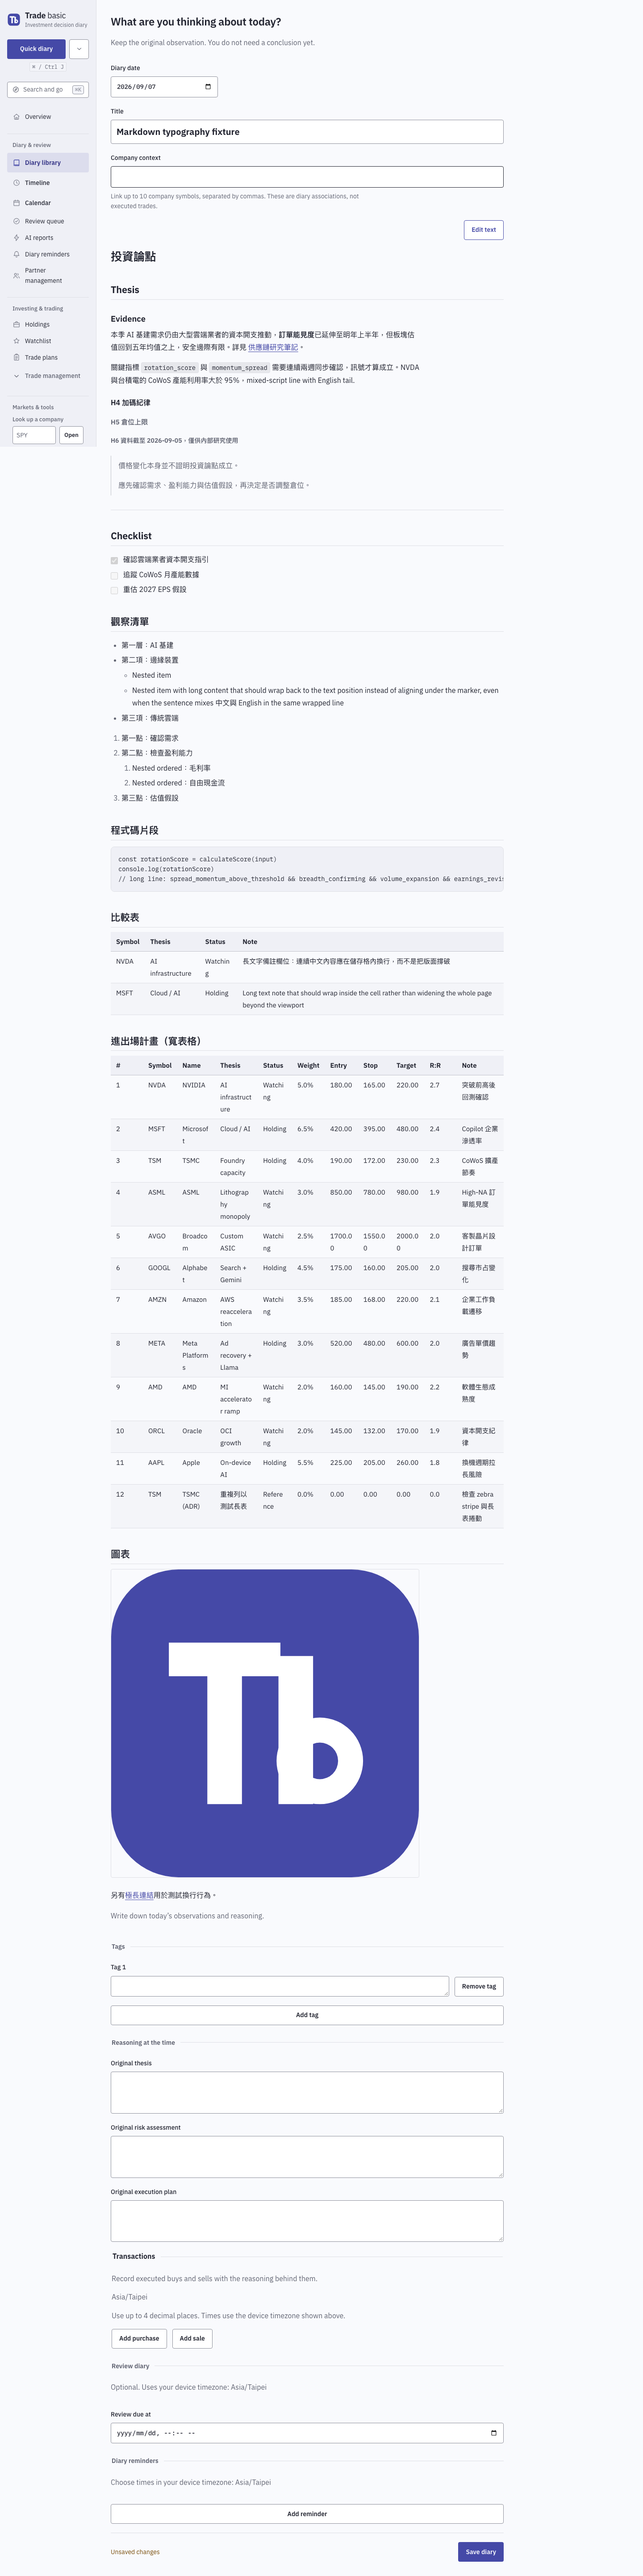
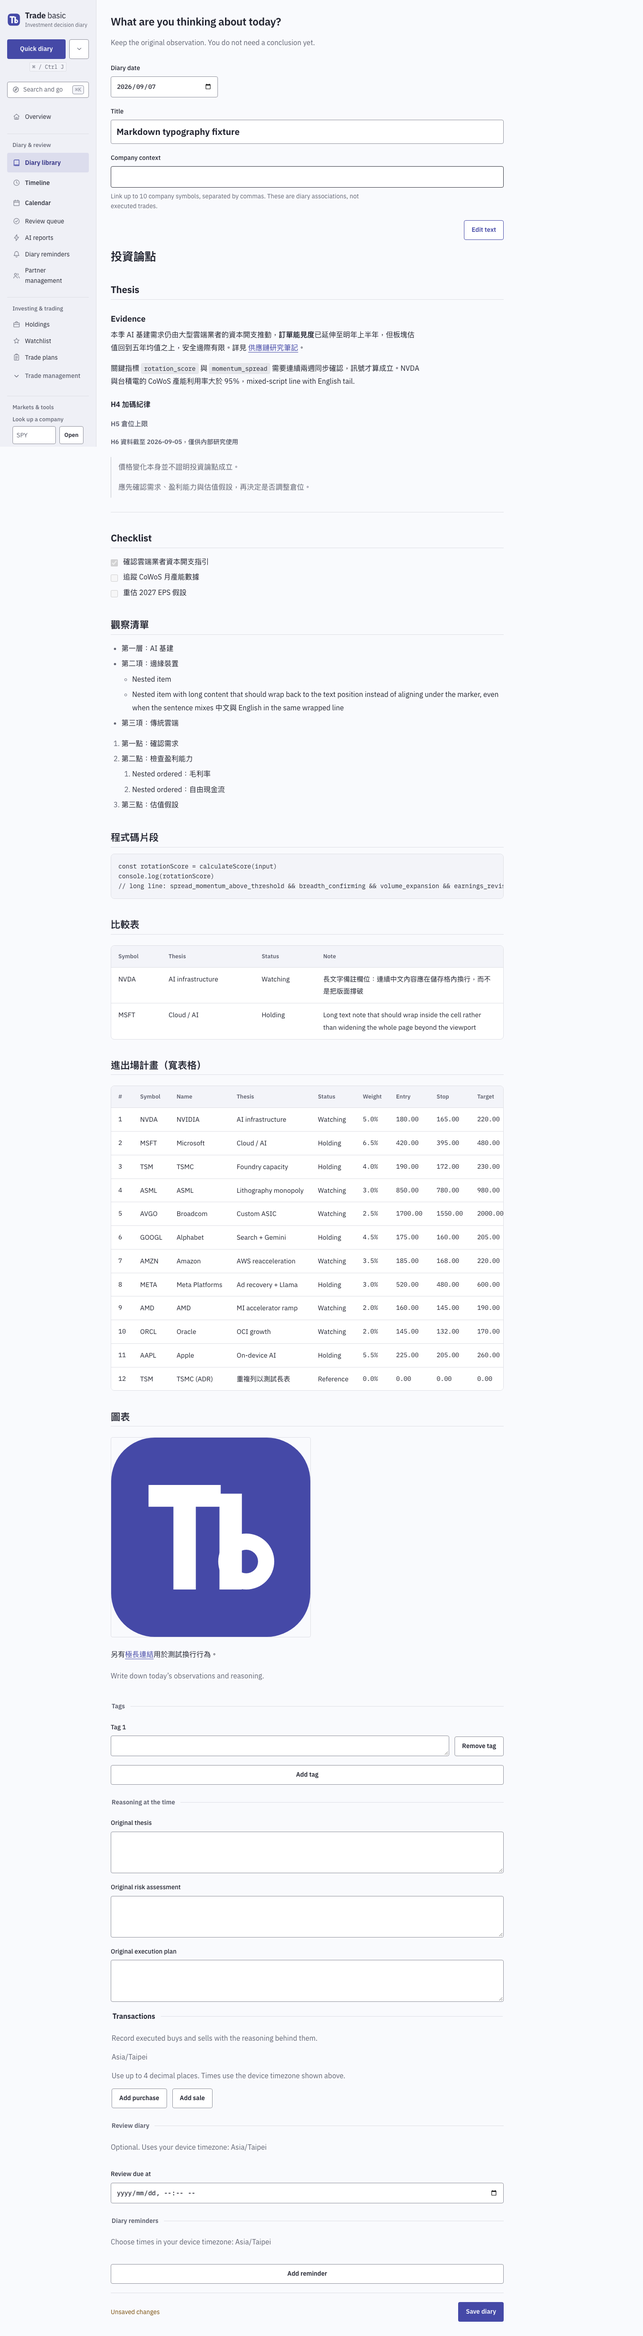
fix(markdown): size table columns to content, bound images, and apply the Figure Rule
The shared `.safe-markdown` layer set `overflow-wrap: anywhere`. Unlike
`break-word`, `anywhere` shrinks an element's min-content width, so table
columns collapsed below the width of a single word and the fixture rendered
"AI infrastructu / re", "Micros / oft" and "Watchin / g" on every Markdown
surface — diary, articles, notes, research, previews. `anywhere` is now scoped
to links and code, the two places a long URL genuinely needs to break inside a
word.

Tables were also pinned to `width: 100%`, which left the browser handing a
prose column its minimum and stacking it one word per line. That was worst at
390px, where the reading page ran 5223px tall with four-line rows. Columns now
size to their content (`width: max-content; min-width: 100%`) and the region
scrolls instead, with a 32ch cell cap so a long note wraps at a readable
measure rather than running the table out to its longest sentence. The same
page is now 4369px with one line per row.

`.markdown-table` had no border, so a wide table bled off the reading column
with nothing to mark where it was clipped. It now follows the `.table-scroll`
idiom already in `styles.css`: hairline, 8px radius, surface background, sunken
muted header, no rule under the last row. Zebra striping goes with it — the
house tables carry row hierarchy on hairlines, per the Structural Hierarchy
Rule, and nothing else in the system stripes.

Images stretched to fill the measure: the fixture's 512px square SVG rendered
[…]

diff --git a/apps/web/app/markdown.css b/apps/web/app/markdown.css
@@ -4,7 +4,15 @@
    spacing scales with each element's own type size. */
 
 .safe-markdown {
-  line-height: 1.8;
+  line-height: 1.85;
+  /* break-word, not anywhere: `anywhere` lets an ordinary word split mid-word
+     and shrinks the min-content width, which collapsed table columns into
+     "infrastructu / re". Only URLs and code may break inside a word. */
+  overflow-wrap: break-word;
+}
+
+.safe-markdown a,
+.safe-markdown code {
   overflow-wrap: anywhere;
 }
 
@@ -98,13 +106,22 @@
   padding: var(--space-4);
   border: 1px solid var(--border);
   border-radius: var(--radius-card);
-  background: var(--muted-surface);
+  /* A code block is a well, which is the surface-sunken role. */
+  background: var(--surface-sunken);
   font-size: 0.875rem;
   line-height: 1.6;
+  tab-size: 2;
   overflow-x: auto;
   /* Same reasoning as .markdown-table: keep long code lines from inflating
      content-sized ancestors. */
   contain: inline-size;
+}
+
+/* A region that scrolls must be reachable by keyboard; the component gives
+   pre a tabindex, so it needs a visible focus state like the table region. */
+.safe-markdown pre:focus-visible {
+  outline: 2px solid var(--focus);
+  outline-offset: 3px;
 }
 
 .safe-markdown pre code {
@@ -181,45 +198,31 @@
 
 /* ---- Images ---- */
 
+/* width/height auto keeps a raster image at its natural size and stops an SVG
+   with no intrinsic size (an icon, a logo) from stretching to fill the whole
+   measure; the max pair then bounds anything larger than the reading column. */
 .safe-markdown img {
+  display: block;
+  width: auto;
   max-width: 100%;
   height: auto;
+  max-height: 28rem;
+  margin: 1.5em 0;
   border: 1px solid var(--border);
   border-radius: var(--radius-control);
 }
 
 /* ---- Tables ---- */
 
-.safe-markdown table {
-  width: 100%;
-  min-width: 0;
-  border-collapse: collapse;
-  font-size: 0.9375rem;
-  font-variant-numeric: tabular-nums;
-}
-
-.safe-markdown th,
-.safe-markdown td {
-  min-width: 8ch;
-  padding: var(--space-2) var(--space-3);
-  border-bottom: 1px solid var(--border);
-  text-align: left;
-  vertical-align: top;
-}
-
-.safe-markdown thead th {
-  background: var(--muted-surface);
-  font-weight: 650;
-  border-bottom: 1px solid var(--border-strong);
-  white-space: nowrap;
-}
-
-.safe-markdown tbody tr:nth-child(even) {
-  background: color-mix(in srgb, var(--muted-surface) 50%, transparent);
-}
-
+/* Markdown tables follow the .table-scroll idiom from styles.css: a bounded,
+   bordered, rounded scroll region on the surface, so a wide table has a
+   visible right edge to scroll against instead of bleeding off the column. */
 .markdown-table {
   max-width: 100%;
+  margin: 1.5em 0;
+  border: 1px solid var(--rule);
+  border-radius: var(--radius-card);
+  background: var(--surface);
   overflow-x: auto;
   /* Inline-size containment stops the table's intrinsic width leaking into
      ancestors that size from content (e.g. grid items with min-width: auto);
@@ -232,6 +235,50 @@
   outline-offset: 3px;
 }
 
-.markdown-table table {
-  min-width: 0;
+/* Columns size to their content and the region scrolls, rather than the table
+   being squeezed into the measure: at 100% width the browser hands a prose
+   column its minimum and stacks it one word per line. min-width keeps a short
+   table filling the region. */
+.safe-markdown table {
+  width: max-content;
+  min-width: 100%;
+  border-collapse: collapse;
+  font-size: 0.9375rem;
+}
+
+.safe-markdown th,
+.safe-markdown td {
+  min-width: 5ch;
+  /* A long note wraps at a readable measure instead of running the table out
+     to the width of its longest sentence. */
+  max-width: 32ch;
+  padding: var(--space-3) var(--space-4);
+  border-bottom: 1px solid var(--rule);
+  text-align: left;
+  vertical-align: top;
+}
+
+/* Header follows the house table header: sunken, muted, small, semibold. */
+.safe-markdown thead th {
+  background: var(--surface-sunken);
+  border-bottom: 1px solid var(--rule);
+  color: var(--muted);
+  font-size: var(--text-xs);
+  font-weight: var(--weight-semibold);
+  white-space: nowrap;
+}
+
+/* The region's own border closes the table; hierarchy stays on the hairlines
+   rather than on zebra fills. */
+.safe-markdown tbody tr:last-child td,
+.safe-markdown tbody tr:last-child th {
+  border-bottom: 0;
+}
+
+/* The Figure Rule: a cell holding only a figure takes the mono cut, so prices
+   and percentages line up down the column. Set by the td/th components. */
+.safe-markdown td.num,
+.safe-markdown th.num {
+  font-variant-numeric: tabular-nums;
+  white-space: nowrap;
 }

diff --git a/apps/web/app/markdown.tsx b/apps/web/app/markdown.tsx
@@ -2,9 +2,27 @@ import { useUi } from './ui';
 import ReactMarkdown from 'react-markdown';
 import remarkGfm from 'remark-gfm';
 import './markdown.css';
+
+/** Per the Figure Rule, a table cell holding nothing but a figure — amount,
+ *  price, percentage, ratio, count or date — takes the mono cut so the column
+ *  aligns down the page. A cell carrying prose stays in the sans face. */
+const FIGURE_CELL = /^[+\-−]?[$€£¥]?\d[\d,. :/-]*%?$/;
+
+type HastNode = { value?: string; children?: HastNode[] };
+const nodeText = (node?: HastNode): string => node?.value ?? (node?.children ?? []).map(nodeText).join('');
+const figureClass = (node?: HastNode) => (FIGURE_CELL.test(nodeText(node).trim()) ? 'num' : undefined);
+
 /** Raw HTML is deliberately not enabled. ReactMarkdown keeps its safe URL transform. */
 export function Markdown({children, allowImages = true, imageFallback}:{children:string; allowImages?: boolean; imageFallback?: string}) {
  const {locale}=useUi();
  const blockedImage = imageFallback ?? (locale==='en' ? 'Image hidden until review.' : locale==='zh-CN' ? '图片将在审核后显示。' : '圖片會在檢閱後顯示。');
- return <div className="safe-markdown"><ReactMarkdown remarkPlugins={[remarkGfm]} skipHtml components={{a:props=>props.href?<a href={props.href} rel="noopener noreferrer">{props.children}</a>:<span>{props.children}</span>,img:props=>allowImages?<img {...props} alt={props.alt ?? ''}/>:<span className="markdown-image-blocked" role="note">{blockedImage}</span>,table:props=><div className="markdown-table" tabIndex={0} role="region" aria-label={locale==='en'?'Markdown table':locale==='zh-CN'?'Markdown 表格':'Markdown 表格'}><table>{props.children}</table></div>}}>{children}</ReactMarkdown></div>;
+ return <div className="safe-markdown"><ReactMarkdown remarkPlugins={[remarkGfm]} skipHtml components={{
+  a:props=>props.href?<a href={props.href} rel="noopener noreferrer">{props.children}</a>:<span>{props.children}</span>,
+  img:props=>allowImages?<img {...props} alt={props.alt ?? ''}/>:<span className="markdown-image-blocked" role="note">{blockedImage}</span>,
+  table:props=><div className="markdown-table" tabIndex={0} role="region" aria-label={locale==='en'?'Markdown table':locale==='zh-CN'?'Markdown 表格':'Markdown 表格'}><table>{props.children}</table></div>,
+  // A block that scrolls sideways must be reachable without a pointer.
+  pre:({node:_node,...props})=><pre {...props} tabIndex={0}/>,
+  th:({node,...props})=><th {...props} className={figureClass(node)}/>,
+  td:({node,...props})=><td {...props} className={figureClass(node)}/>,
+ }}>{children}</ReactMarkdown></div>;
 }

diff --git a/DESIGN.md b/DESIGN.md
@@ -218,7 +218,7 @@ The `cb` blue sits at hue 235, held clear of the ink action hue so a colour-blin
 
 The scale is fixed rem at roughly a 1.15–1.2 ratio: 13px is the small-text floor and 12px is reserved for badges. Headings are weight 600 and use `text-wrap: balance`; prose uses `text-wrap: pretty` and caps at 72ch. Tracking never goes below -0.02em. Reading body uses 1.85 line height, preserves line breaks, and is capped at 72ch; the textarea uses 1.7 and is vertically resizable.
 
-Per the Figure Rule, `.num`, `.figure`, `time`, `kbd`, `code`, `.stat-value`, `.ledger-row` figures and the native numeric/date inputs all take the mono cut.
+Per the Figure Rule, `.num`, `.figure`, `time`, `kbd`, `code`, `.stat-value`, `.ledger-row` figures and the native numeric/date inputs all take the mono cut. A Markdown table cell holding nothing but a figure takes it too, detected in `markdown.tsx`, so an authored price column aligns like a ledger column without the author marking it up.
 
 ### Space, radius, elevation, motion
 
@@ -293,6 +293,7 @@ Each page follows the tokens/components above plus its scoped brief; acceptance 
 - **Overview:** reading order is at most five current actions, three recent diaries, compact portfolio/watchlist context, then links to other destinations — context never competes in a right rail. `docs/design/daily-workspace-brief.md`, `docs/design/daily-workspace-acceptance.md`.
 - **Diary library (`/diaries`):** filter bar, dates, title links, plain-text excerpts, tags in a flat list; URL preserves filters/pagination; applying a filter resets the page; focus moves to the results heading after paging. `docs/design/diary-list-finish-review.md`.
 - **Diary reading/editing:** date precedes title on reading pages; body keeps 72ch and original line breaks; body is safe Markdown/GFM (raw HTML rejected, unsafe URLs stripped). Blockquotes are a 1px rule plus indentation, not a coloured stripe. The editor offers preview, tags, thesis/risk/execution fields, and a footer separating save status from actions.
+- **Rendered Markdown (`.safe-markdown`, shared by diary, articles, notes, research and previews):** only links and code may break inside a word, so an ordinary word never splits mid-word. Tables are the same bordered, rounded scroll region as `.table-scroll`: columns size to their content and the region scrolls, rather than the table being squeezed into the measure, with a 32ch cap so a long note wraps at a readable width. Code blocks are a sunken well and, like the table region, are keyboard-focusable because they scroll. An image keeps its natural size — bounded, never stretched to fill the measure.
 - **BUY entries and holdings:** trade groups add/remove in the diary form; quantity and price stay decimal strings. `/stocks` uses a four-column cost holdings table. `docs/design/buy-finish-review.md`.
 - **Timeline and Calendar:** month groups with dates/titles/excerpts and native Markdown disclosure; civil-date month grid with activity markers and a keyboard-moveable 371-day heatmap; market holidays are hatched, which encodes "not a trading day" without relying on colour; holiday coverage shows "not computed" on failure. `docs/design/timeline-finish-review.md`, `docs/design/calendar-finish-review.md`.
 - **Company market view (`/stocks/:symbol`):** definition-list quote (three columns desktop, two mobile), keyboard-operable history table capped at 50 rows/page, independent loading/failure/retry per section, native select for range. `docs/design/market-finish-review.md`.
